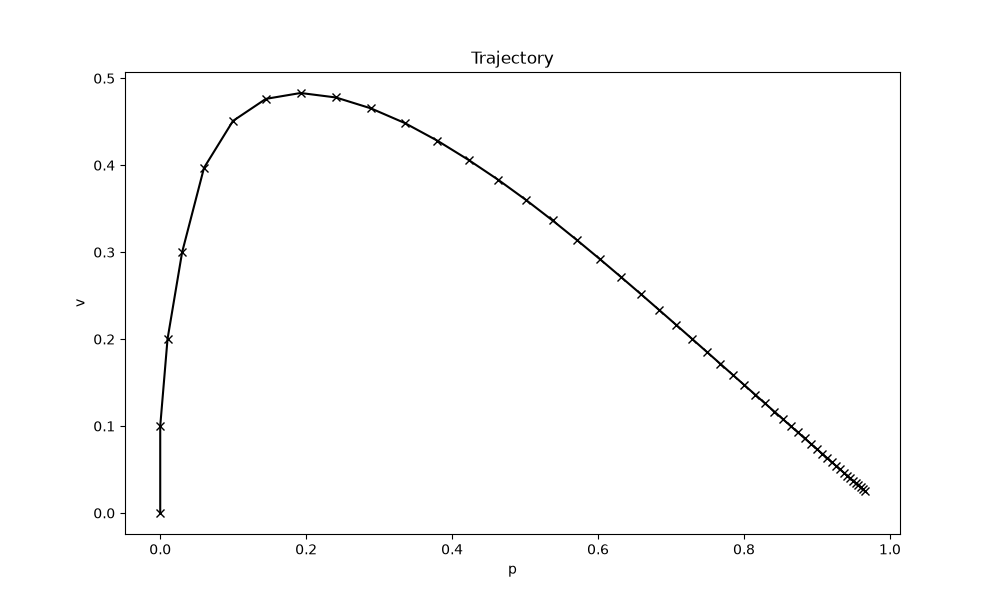
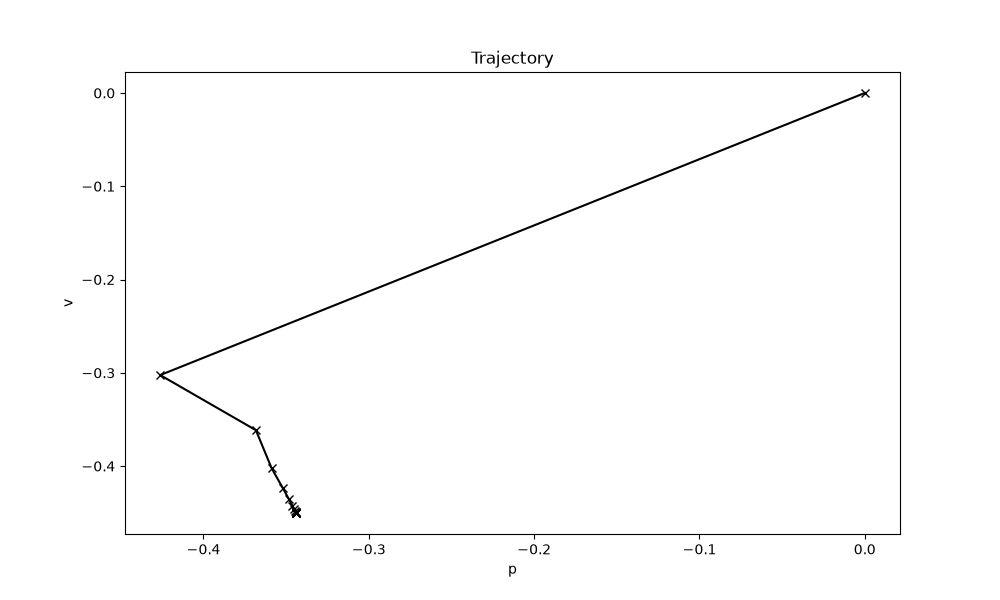
update files

diff --git a/src/diffmpc_cbf/base/metricfunc.py b/src/diffmpc_cbf/base/metricfunc.py
@@ -1,6 +1,6 @@
 from .tau import Tau
 from .. import Cost, Dynamic
-from typing import Dict, Tuple, Union, Optional
+from typing import Dict, Tuple, Union, Optional, Any
 import torch
 from torch import Tensor
 
@@ -14,15 +14,15 @@ class MetricFunction:
             self,
             tau,
             x0: Tensor,
-            cost_params: Optional[Dict[str, Tensor]]=None,
+            params: Optional[Dict[str, Any]]=None,
             dvep: Optional[Tensor]=None
         ) -> float: # (T*ntau+nx)
         metric: float = 0.0
 
         # cost
         for t in range(self._T):
-            metric += self._cost.get_stage_cost(tau[t], cost_params)
-        metric += self._cost.get_terminal_cost(tau.get_state(self._T), cost_params)
+            metric += self._cost.get_stage_cost(tau[t], {**params.get('cost'), 't': t})
+        metric += self._cost.get_terminal_cost(tau.get_state(self._T), {**params.get('cost'), 't': t})
 
         # equality residual
         h = torch.zeros([(self._T+1)*self._nx])
@@ -30,7 +30,7 @@ class MetricFunction:
             if t == 0:
                 _dym_term = x0
             else:
-                _dym_term = self._dynamic.forward(tau[t-1])
+                _dym_term = self._dynamic.forward(tau[t-1], {**params.get('dynamic'), 't': t})
             h[t*self._nx: (t+1)*self._nx] = _dym_term.flatten() - tau.get_state(t)
 
         _eq_weight = self.eq_weight if dvep is None else max(self.eq_weight, 1.1*torch.max(torch.abs(dvep)))
@@ -43,10 +43,10 @@ class iLQRMetricFunction:
         self._nx = nx; self._nu = nu; self._T = T; self._cost = cost; self._dynamic = dynamic
         self._ntau = self._nx + self._nu
 
-    def __call__(self, x: Tensor, u: Tensor, cost_params: Optional[Dict[str, Tensor]]=None) -> float:
+    def __call__(self, x: Tensor, u: Tensor, params: Optional[Dict[str, Tensor]]=None) -> float:
         metric: float = 0.0
         # cost
         for t in range(self._T):
-            metric += self._cost.get_stage_cost((x[t], u[t]), cost_params)
-        metric += self._cost.get_terminal_cost(x[self._T], cost_params)
+            metric += self._cost.get_stage_cost((x[t], u[t]), {**params.get('cost'), 't': t})
+        metric += self._cost.get_terminal_cost(x[self._T], {**params.get('cost'), 't': t})
         return metric

diff --git a/examples/lc_ex/main.py b/examples/lc_ex/main.py
@@ -13,18 +13,51 @@ def main():
     ntau = nx + nu
     C: Tensor = torch.rand([T+1, ntau, ntau])
     c: Tensor = torch.rand([T+1, ntau])
-    cost    = LCost(nx, nu, T)
-    dynamic = LcDynamic(nx, nu, T, delta_t)
+    F: Tensor = torch.rand([T, nx, ntau])
+    cost      = LCost(nx, nu, T, C, c)
+    dynamic   = LcDynamic(nx, nu, T, F)
     
-    umin    = torch.tensor([-1.0])
-    umax    = torch.tensor([1.0])
-    mpc     = iLQRDiffMPC(nx, nu, T, 1, cost, dynamic, umin, umax)
+    umin      = torch.tensor([-1.0])
+    umax      = torch.tensor([1.0])
+    mpc       = iLQRDiffMPC(nx, nu, T, 1, cost, dynamic, umin, umax)
 
-    # solve one step mpc
     x0 = torch.tensor([[0.], [0.]])
     xs = torch.zeros([N, nx]); xs[0] = x0.flatten()
     for t in range(1, N):
-        tau = mpc.step(xs[t-1], {'xref': torch.tensor([[1.], [0.]])})
-        xs[t]  = dynamic.forward((xs[t-1], tau.u[0])).flatten()
+        _, u = mpc.step(xs[t-1], {'cost': {'xref': torch.tensor([[1.], [0.]])}})
+        xs[t]  = dynamic.forward((xs[t-1], u[0]), {'t': 0}).flatten()
+    
     plot_trajectory(xs, 'imgs/sp_sqp.png')
- 
+
+
+def main2():
+    nx: int = 2
+    nu: int = 1
+    T: int  = 5
+    delta_t: float = 0.1
+    N: int  = 50
+    ntau = nx + nu
+    C: Tensor = torch.rand([T+1, ntau, ntau])
+    c: Tensor = torch.rand([T+1, ntau])
+    F: Tensor = torch.rand([T, nx, ntau])
+    cost      = LCost(nx, nu, T, C, c)
+    dynamic   = LcDynamic(nx, nu, T, F)
+    
+    umin      = torch.tensor([-1.0])
+    umax      = torch.tensor([1.0])
+    mpc       = iLQRDiffMPC(nx, nu, T, 1, cost, dynamic, umin, umax)
+
+    x0 = torch.tensor([[0.], [0.]])
+    x, u = mpc.step(x0, {'cost': {'xref': torch.tensor([[1.], [0.]])}})
+
+    def loss_func(u: Tensor) -> Tensor: # (nu, )
+        return u[0]
+
+    # backward
+    loss = loss_func(u)
+    dl_dC, = torch.autograd.grad(loss, (C), retain_graph=True)
+    print(dl_dC)
+
+
+if __name__ == '__main__':
+    main2()

diff --git a/src/diffmpc_cbf/lqr/solve.py b/src/diffmpc_cbf/lqr/solve.py
@@ -25,7 +25,10 @@ def lqr_step_solve(
         Jl[T+1, ntau]: Jacobian vector for cost function
         Hl[T+1, ntau, ntau]: Hessian matrix for cost function
     '''
-    if params is None: params = {'cost': {}, 'dynamic': {}}
+    if params is None: params = {}
+    for key in ['cost', 'dynamic']:
+        if key not in params:
+            params[key] = dict()
     alpha: float = 1.0
     T, nx, ntau = Jf.shape
     nu = ntau - nx
@@ -52,9 +55,9 @@ def lqr_step_solve(
     for j in range(line_search_max_num):
         for t in range(T):
             _u[t, :] = u[t, :] + alpha*ks[t, :] + (Ks[t, :, :] @ (_x[t, :] - x[t, :]).reshape(-1, 1)).flatten()
-            _x[t+1, :] = dynamic.forward((_x[t, :], _u[t, :])).flatten()
+            _x[t+1, :] = dynamic.forward((_x[t, :], _u[t, :]), {**params.get('dynamic'), 't': t}).flatten()
 
-        if metricfunc(_x, _u, params.get('cost')) < metricfunc(x, u, params.get('cost')):
+        if metricfunc(_x, _u, params) < metricfunc(x, u, params):
             x = _x.clone(); u = _u.clone()
             break
         alpha *= line_search_decay_rate
@@ -92,7 +95,10 @@ def mpc_solve(
         line_search_max_num: int=10,
         line_search_decay_rate: float=0.5,
     ) -> Tuple[Tensor]:
-    if params is None: params = {'cost': {}, 'dynamic': {}}
+    if params is None: params = {}
+    for key in ['cost', 'dynamic']:
+        if key not in params:
+            params[key] = dict()
     with torch.no_grad():
         x: Tensor = torch.zeros([T+1, nx])
         u: Tensor = torch.zeros([T, nu])

diff --git a/src/diffmpc_cbf/lqr/diffmpc.py b/src/diffmpc_cbf/lqr/diffmpc.py
@@ -26,12 +26,17 @@ class DiffMPC:
         self._metricfunc = iLQRMetricFunction(nx, nu, T, self._cost, self._dynamic)
     
     def step(self, x0: Tensor, params: Optional[Dict[str, Any]]=None) -> Tuple[Tensor]:
+        if params is None: params = {}
+        for key in ['cost', 'dynamic']:
+            if key not in params:
+                params[key] = dict()
+
         with torch.no_grad():
             x: Tensor = torch.zeros([self._T+1, self._nx])
             u: Tensor = torch.zeros([self._T, self._nu])
             x[0] = x0.flatten()
             for t in range(self._T):
-                x[t+1] = self._dynamic.forward((x[t], u[t])).flatten()
+                x[t+1] = self._dynamic.forward((x[t], u[t]), {**params.get('dynamic'), 't': t}).flatten()
 
             for i in range(self._iter_nums):
                 Jf, Jl, Hl = build_ilqr_params(x, u, self._dynamic, self._cost, params)
